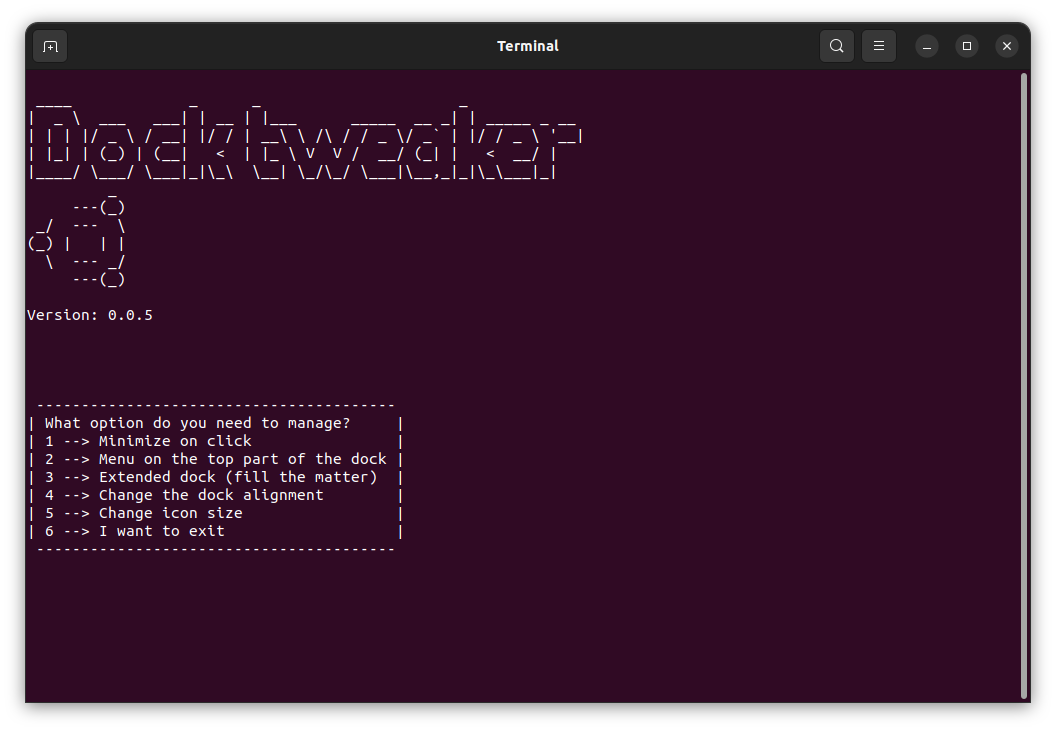
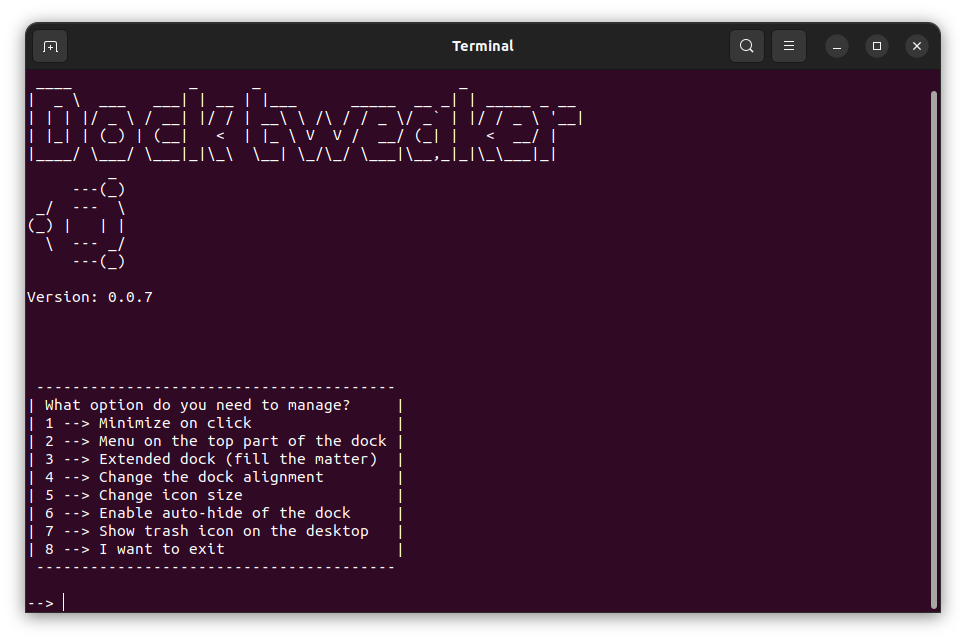
Version 0.0.7

diff --git a/trash.py b/trash.py
@@ -1,20 +1,20 @@
 import os
 
-def minclick():
+def trash():
 
     print("""
 
- ---------------------------------------------------
-| Type 1 if you need to enable 'minimize on click'  |
-| Type 2 if you need to disable this option off     |
- ---------------------------------------------------
+ --------------------------------------------------------------
+| Type 1 if you need to enable a trash can icon on the desktop |
+| Type 2 if you need to disable the trash icon                 |
+ --------------------------------------------------------------
 
 """)
     x = int (input("--> "))
 
 
     if x == 1:
-        os.system("gsettings set org.gnome.shell.extensions.dash-to-dock click-action 'minimize'")
+        os.system("gsettings set org.gnome.shell.extensions.ding show-trash true")
         print ("""
 
  -----------------------------------
@@ -27,7 +27,7 @@ def minclick():
         os.system("clear")
 
     elif x == 2:
-        os.system("gsettings reset org.gnome.shell.extensions.dash-to-dock click-action")
+        os.system("gsettings set org.gnome.shell.extensions.ding show-trash false")
         print ("""
     
  -----------------------------------

diff --git a/tweaker.py b/tweaker.py
@@ -12,6 +12,7 @@ import extra as e
 import Position
 import Size
 import Autohide
+import trash
 
 # Ubuntu logo
 
@@ -30,7 +31,8 @@ while 1 == 1:
 | 4 --> Change the dock alignment        |
 | 5 --> Change icon size                 |
 | 6 --> Enable auto-hide of the dock     |
-| 7 --> I want to exit                   |
+| 7 --> Show trash icon on the desktop   |
+| 8 --> I want to exit                   |
  ----------------------------------------
 
 --> """))
@@ -51,12 +53,16 @@ while 1 == 1:
 
     elif a == 5:
         Size.size()
-    elif a ==6:
+
+    elif a == 6:
         Autohide.autohide()
+
+    elif a == 7:
+        trash.trash()
 
 # Exit option
 
-    elif a == 7:
+    elif a == 8:
         os.system("clear")
         print("""
         

diff --git a/extra.py b/extra.py
@@ -24,7 +24,7 @@ def logoin():
   \  --- _/  
      ---(_)  
 
-Version: 0.0.6
+Version: 0.0.7
 
     """)
 

diff --git a/README.md b/README.md
@@ -11,77 +11,22 @@ git clone https://github.com/LambLeeg/Ubuntu-dock-tweaker-CLI-TUI.git
  from a terminal within the dirrectory you want it to be.
 
 1. Now, open the cloned folder in a terminal, and write `./tweaker.py`
-2. The second method is to open Files and right click the `tweaker.py`, then click "Run as a program" (works for Ubuntu)
-3. Look at the releases section on the right side, there is a one package R (LTS) version for you!
+2. The second method (recommended) is to open Files and right click the `tweaker.py`, then click "Run as a program" (works for Ubuntu)
 ___
 
 ## QA
 1. How it works?
 - These are simple, and easy to write Python files; they are made as modules to ease the coding
 
-2. What is the difference between a normal release and R release?
-- The normal release is for implementation of new stuff, meanwhile as R for a sort of _LTS_ release for a long term usage
-
-3. Why would I use it?
+2. Why would I use it?
 - Well, it's made for people who want a program that is not relying on GUI but makes its work
 
-4. Why it's FOSS?
-- Because I do believe that free and open source is the power of openness
+3. Why it's FOSS?
+- Because I do believe that free and open source is the power of a code
 ___
 
 ## Will it have something else?
-Well, in a nutshell, yes; I am going to add some stuff
+Well, in a nutshell - yes; I am going to add some stuff
 
 ## Troubleshooting
-There is a little chance that cloned files won't work, then just use `chmod +x tweaker.py` at the cloned folder or right click --> Properties --> Permissions --> Allow executing file as a program, and now give it a second shot!
-
-___
-## Update history
-
-### Version 0.0.1
-- Minimize on click
-- Move application menu on top of the dock
-
-#### Changelog:
-- The 'disable' feature is now workable
-
-### Version 0.0.2
-- Extended dock
-
-#### Changelog:
-- Added the Extended option
-- Now, the core file is name just `tweaker.py` instead of long name that make cause some troubles
-
-Bugs:
-- script doesn't make anything to system
-
-### Version 0.0.3
-- The fixes of bugs and errors
-
-#### Changelog:
-- Now, everything just works, before 'disable' could do nothing
-- Options 'YES' and 'NO' were changed to 1 and 2
-
-### Version 0.0.4
-- Now you can change the position of a dock
-
-#### Changelog:
-- Added the new option to choose where dock is placed
-- Spelling mistakes are fixed
-
-## Version 0.0.5 R
-- Now you can change the size of icons
-
-#### Changelog
-- Added 'change icon size' option
-- Added a small arrow at input area
-
-Bugs:
-- Arrow of the input area wasn't correct
-
-### Version 0.0.6
-- Added auto-hide option
-
-#### Changelog
-- Added 'auto-hide' option
-- Arrow bug is fixed
+There is a little chance that cloned files won't work, then just use `chmod +x tweaker.py` at the cloned folder or right click `tweaker.py` --> Properties --> Permissions --> Allow executing file as a program, and now give it a second shot!
